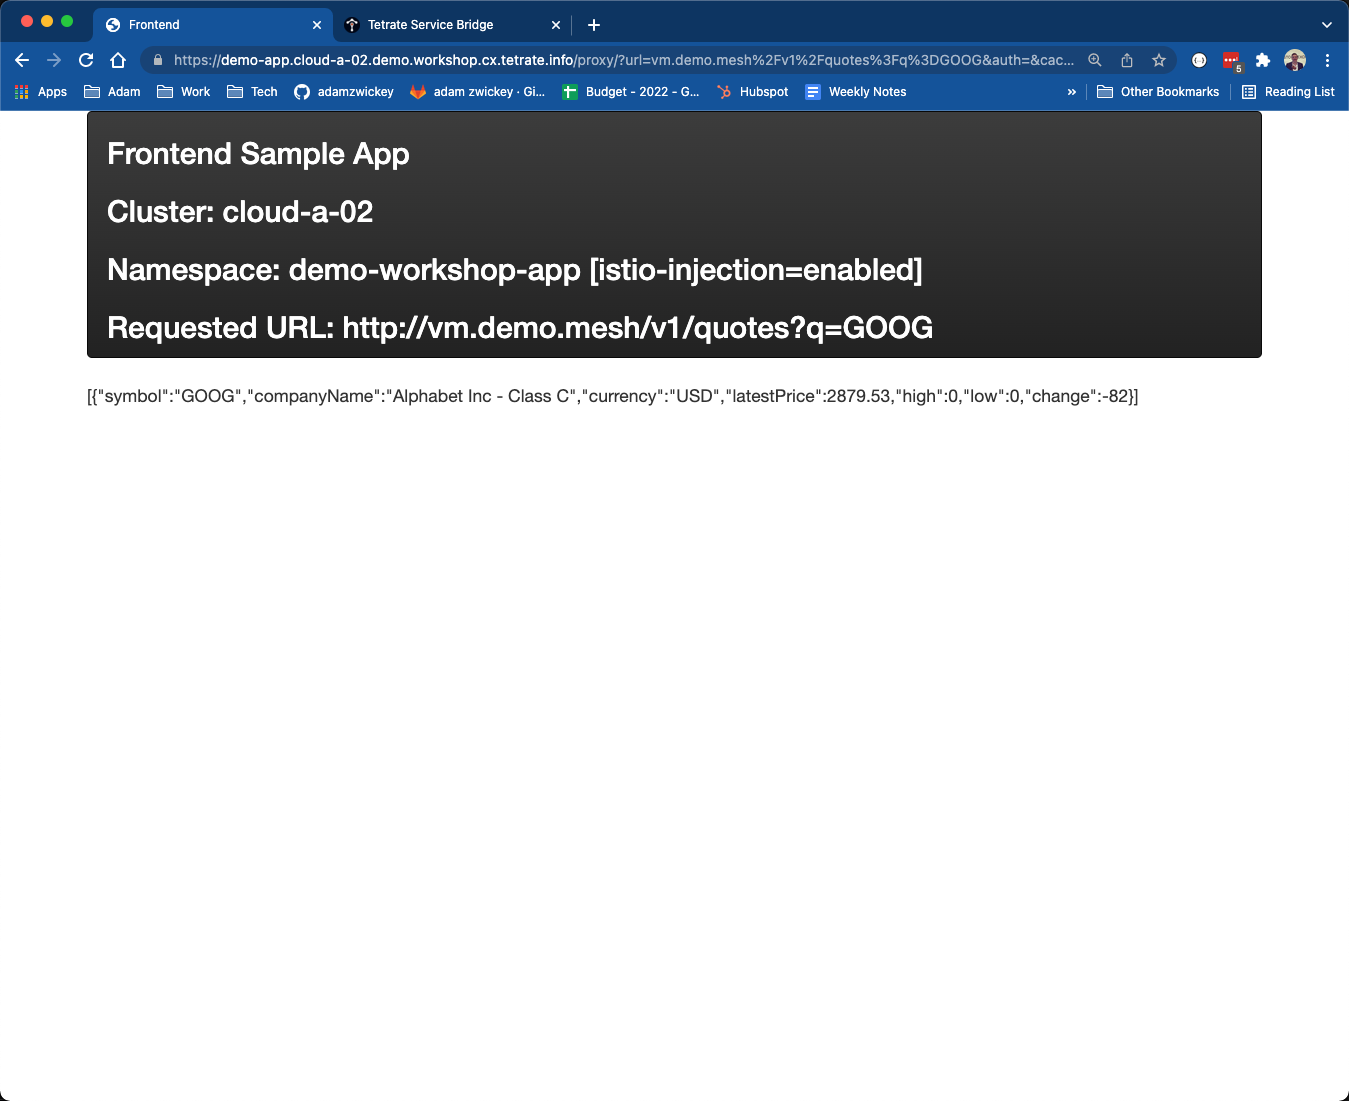
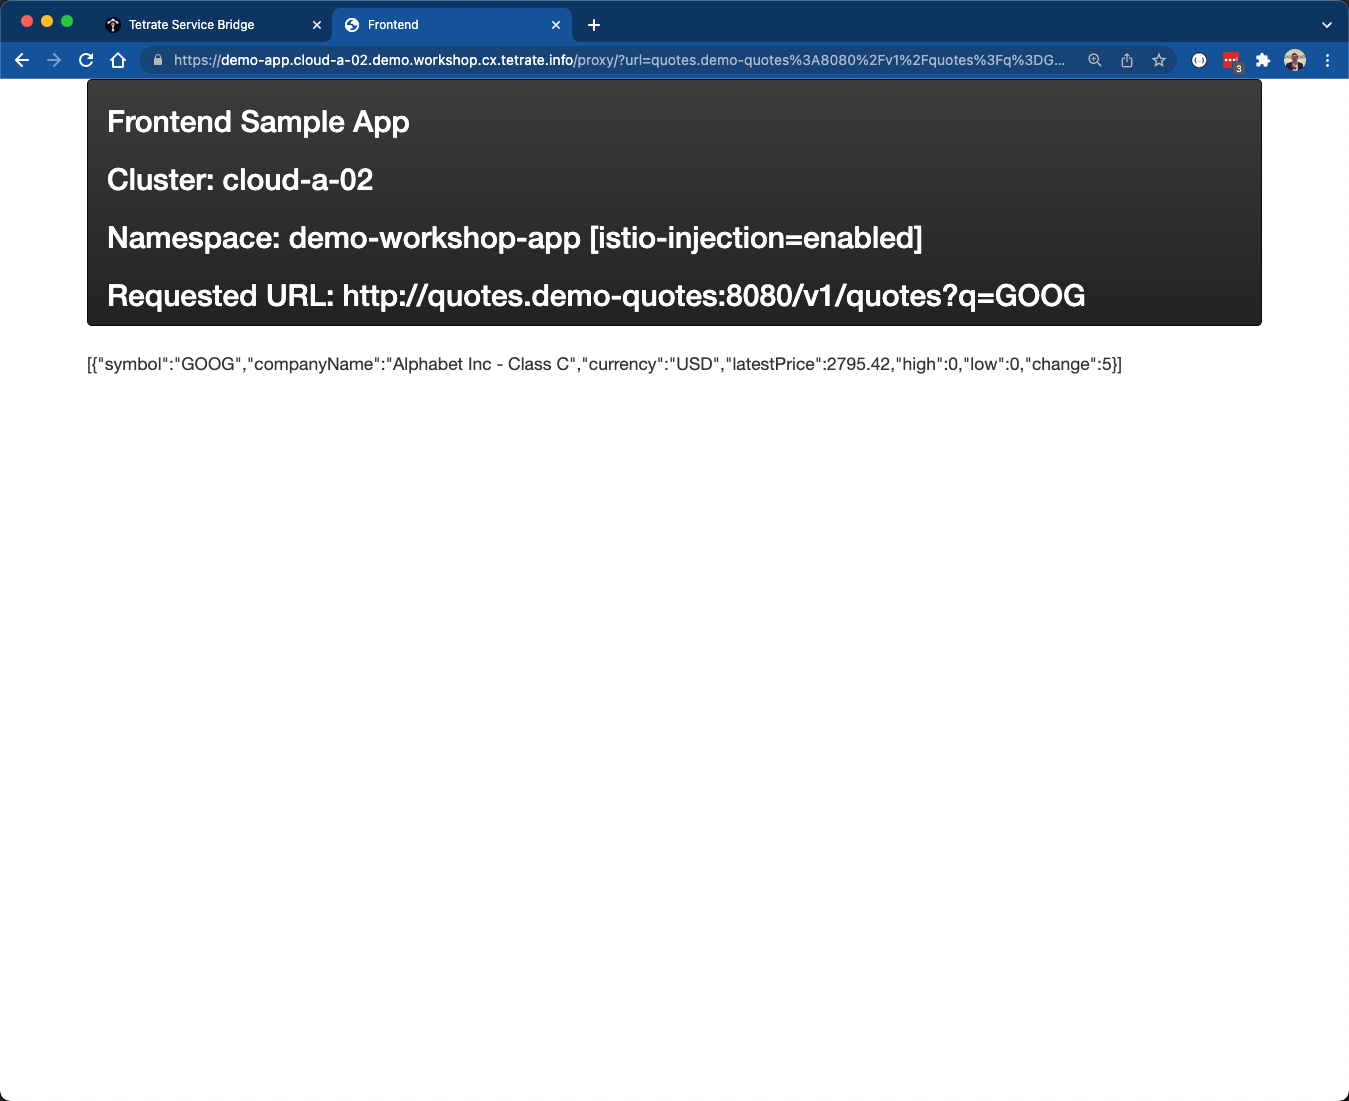
added S2S security lab

Changed region(s): [[0.0, 0.0, 1.0, 0.3706]]

diff --git a/06-app-security-s2s/README.md b/06-app-security-s2s/README.md
@@ -49,7 +49,7 @@ curl -i quotes.$PREFIX-quotes:8080/v1/quotes?q=GOOG
 The message `Recv failure: Connection reset by peer` is indiciative of our request being rejected because we did not provide a valid client certificate.
 
 # Configure Service to Service Authorization
-Lets verify that the inter-mesh traffic is still functioning between our demo-app, which has been the frontend app we have been utilizing in a browser, and the market data service.  Open a browser and navigate to https://demo-app.cloud-a-01.$PREFIX.workshop.cx.tetrate.info (replace $PREFIX with your actual prefix and make sure you're using https not http). In the Backend HTTP URL field enter the following url: vm.$PREFIX.mesh/v1/quotes?q=GOOG (again, replace $PREFIX with your actual prefix). We should see a response from either our VM backend or the pod, since our traffic is load balanced between the 2.  This is still functional because it is traffic within the mesh and the demo-app frontend is able to present a valid service identity in the form of a client ceritificate.  
+Lets verify that the inter-mesh traffic is still functioning between our demo-app, which has been the frontend app we have been utilizing in a browser, and the market data service.  Open a browser and navigate to https://demo-app.cloud-a-01.$PREFIX.workshop.cx.tetrate.info (replace $PREFIX with your actual prefix and make sure you're using https not http). In the Backend HTTP URL field enter the following url, which will invoke the market data service: quotes.demo-quotes:8080/v1/quotes?q=GOOG (again, replace $PREFIX with your actual prefix). We should see a response from either our VM backend or the pod, since our traffic is load balanced between the 2.  This is still functional because it is traffic within the mesh and the demo-app frontend is able to present a valid service identity in the form of a client ceritificate.  
 
 ![Base Diagram](../docs/06-security-authn1.png)
 
